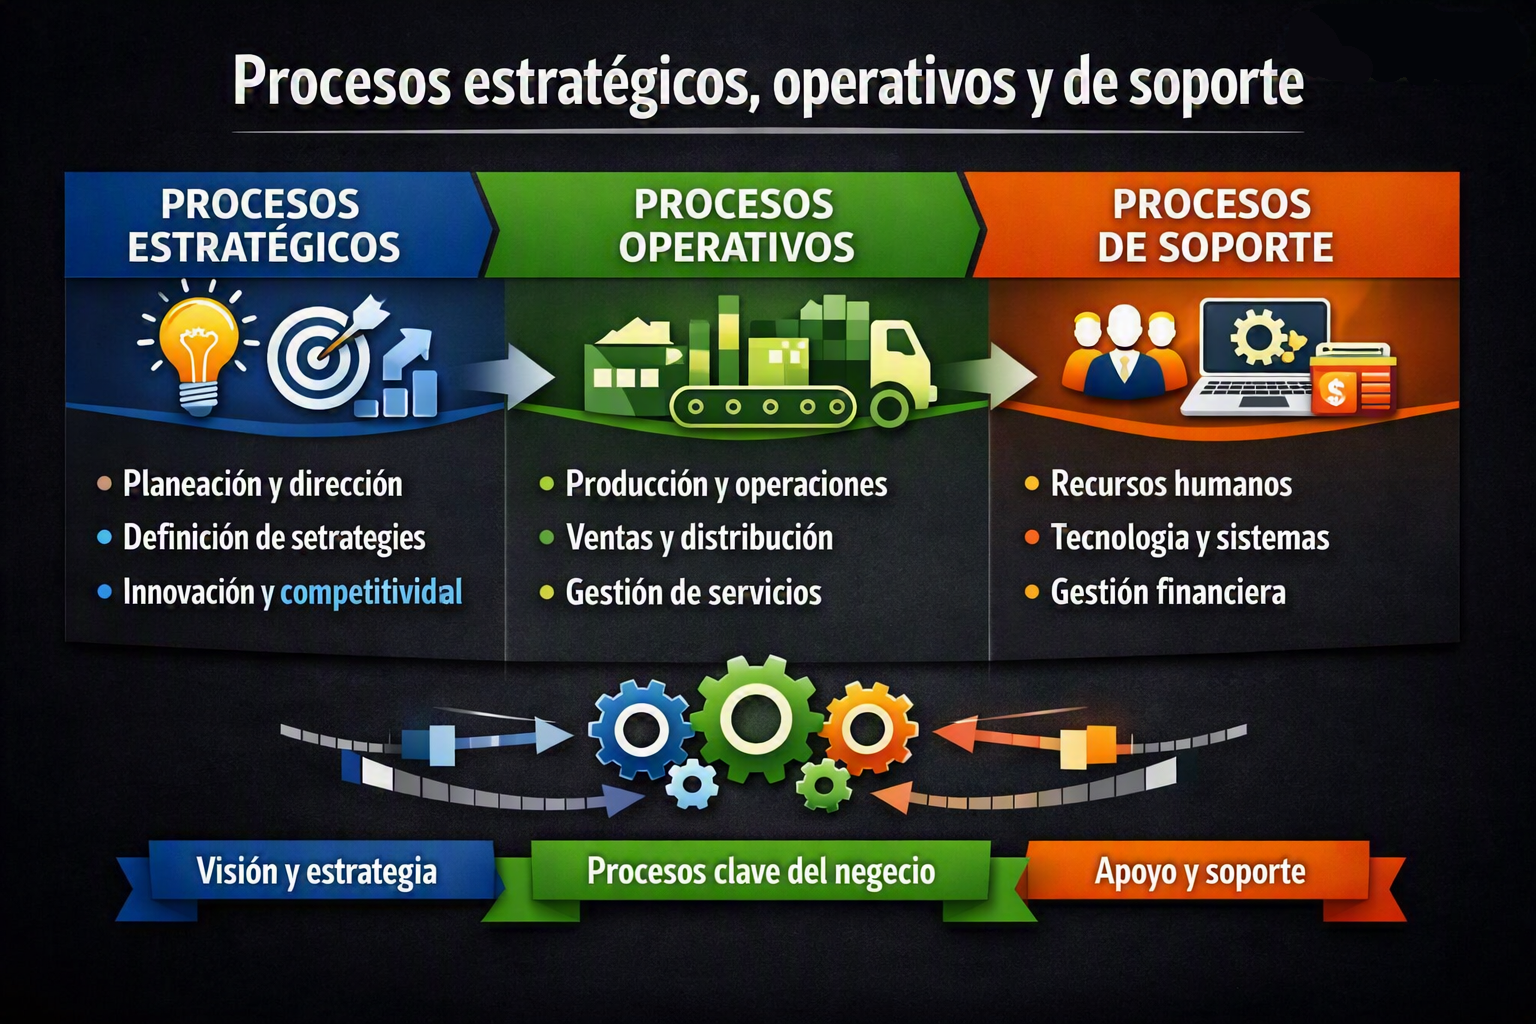
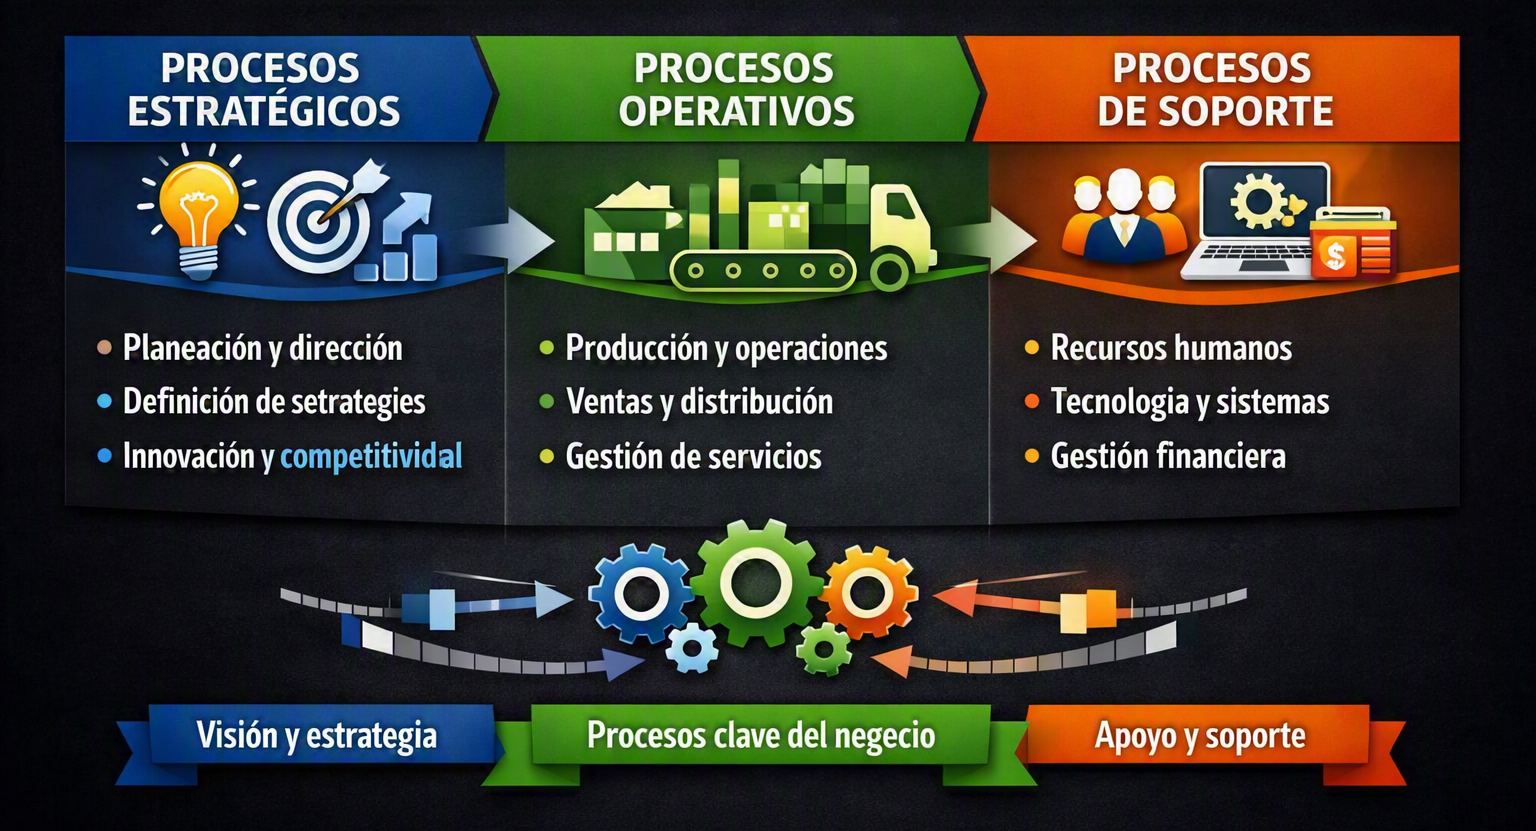
Se separa nombre de la empresa y objetivo en el informe de reconocimiento. Se agregan anexos, A y B

diff --git a/clases/clase-03-informe-de-reconocimiento/index.html b/clases/clase-03-informe-de-reconocimiento/index.html
@@ -320,22 +320,32 @@
                         </div>
 
                         <div>
-                            <strong class="text-slate-900 dark:text-slate-200 block mb-1">1. NOMBRE Y OBJETIVO DE LA ORGANIZACIÓN:</strong>
-                            Juegos del País S.H. Se dedica a la administración de agencias de lotería en Mendoza, Corrientes, Chaco, Neuquén y Misiones (con apertura planificada en Córdoba, Salta y Santiago del Estero).
+                            <strong class="text-slate-900 dark:text-slate-200 block mb-1">1 - NOMBRE DE LA ORGANIZACIÓN:</strong>
+                            Juegos del País S.H. 
                         </div>
 
                         <div>
-                            <strong class="text-slate-900 dark:text-slate-200 block mb-1">2. SPONSOR:</strong>
-                            Ernesto del Tránsito.
+                            <strong class="text-slate-900 dark:text-slate-200 block mb-1">2 - OBJETIVO DE LA ORGANIZACIÓN:</strong>
+                            Se dedica a la administración de agencias de lotería en Mendoza, Corrientes, Chaco, Neuquén y Misiones (con apertura planificada en Córdoba, Salta y Santiago del Estero).
                         </div>
 
                         <div>
-                            <strong class="text-slate-900 dark:text-slate-200 block mb-1">3. OBJETIVO DEL MANDATO:</strong>
+                            <strong class="text-slate-900 dark:text-slate-200 block mb-1">3 - OBJETIVO DEL MANDATO:</strong>
                             Implementación de un sistema de seguimiento de jugadas que abarque desde el sorteo hasta el pago de premios.
                         </div>
 
                         <div>
-                            <strong class="text-slate-900 dark:text-slate-200 block mb-1">4. ESTRUCTURA FORMAL Y FUNCIONES:</strong>
+                            <strong class="text-slate-900 dark:text-slate-200 block mb-1">4 - SPONSOR:</strong>
+                            Ernesto del Tránsito.
+                        </div>
+
+                        <div>
+                            <strong class="text-slate-900 dark:text-slate-200 block mb-1">5 - ESTRUCTURA FORMAL</strong>
+                            Ver organigrama en Anexo A
+                        </div>
+
+                        <div>
+                            <strong class="text-slate-900 dark:text-slate-200 block mb-1">6 - ÁREAS Y/O FUNCIONES</strong>
                             - <strong>Comité Directivo:</strong> Establecer pautas generales, planes de negocio y presupuestos.<br>
                             - <strong>Gerencia Administrativa:</strong> Centralizar la administración de sucursales.<br>
                             - <strong>Departamento de Recursos:</strong> Selección, evaluación y rotación de personal.<br>
@@ -343,19 +353,34 @@
                             - <strong>Gerencia de Finanzas:</strong> Centralizar las funciones de finanzas.<br>
                             - <strong>Departamento de Recaudaciones:</strong> Consolidar saldos depositados y liberar pagos.<br>
                             - <strong>Departamento de Premios:</strong> Procesar apuestas, determinar premios y emitir estadísticas.<br>
-                            - <strong>Sector Publicaciones:</strong> Publicar resultados.
+                            - <strong>Sector Publicaciones:</strong> Publicar resultados.                            
                         </div>
 
                         <div>
-                            <strong class="text-slate-900 dark:text-slate-200 block mb-1">5. PROBLEMAS Y NECESIDADES DETECTADOS:</strong>
+                            <strong class="text-slate-900 dark:text-slate-200 block mb-1">8 - PROCESOS DE NEGOCIO</strong>
+                            Ver organigrama en Anexo B (página xx)
+                        </div>
+
+                        <div>
+                            <strong class="text-slate-900 dark:text-slate-200 block mb-1">9 - PROBLEMAS Y NECESIDADES DETECTADOS</strong>
                             - El sistema de seguimiento debe ser web enabled.<br>
                             - La base de datos debe ser MySQL o equivalente.<br>
                             - El seguimiento debe cumplir con la Ley de Juegos y Casinos.
                         </div>
 
                         <div>
-                            <strong class="text-slate-900 dark:text-slate-200 block mb-1">6. CONCLUSIÓN (ÁREAS A RELEVAR):</strong>
+                            <strong class="text-slate-900 dark:text-slate-200 block mb-1">10 - CONCLUSIÓN (ÁREAS A RELEVAR):</strong>
                             Las áreas a relevar en detalle son los Departamentos de Premios, Recaudaciones, Sorteos y Publicaciones y su interacción con el resto de la empresa.
+                        </div>
+
+                        <div>
+                            <strong class="text-slate-900 dark:text-slate-200 block mb-1">11 - ANEXO A - ORGANIGRAMA</strong>
+                            <img src = "assets/images/informe-de-reconocimiento-anexo-a-organigrama.png" alt="Anexo A - organigrama">
+                        </div>
+
+                        <div>
+                            <strong class="text-slate-900 dark:text-slate-200 block mb-1">12 - ANEXO B - MAPA DE PROCESOS</strong>
+                            <img src = "assets/images/informe-de-reconocimiento-anexo-B-mapa-de-procesos.png" alt="Anexo A - organigrama">
                         </div>
 
                         <div class="pt-2 border-t border-slate-200 dark:border-slate-800 text-amber-600 dark:text-amber-400">
